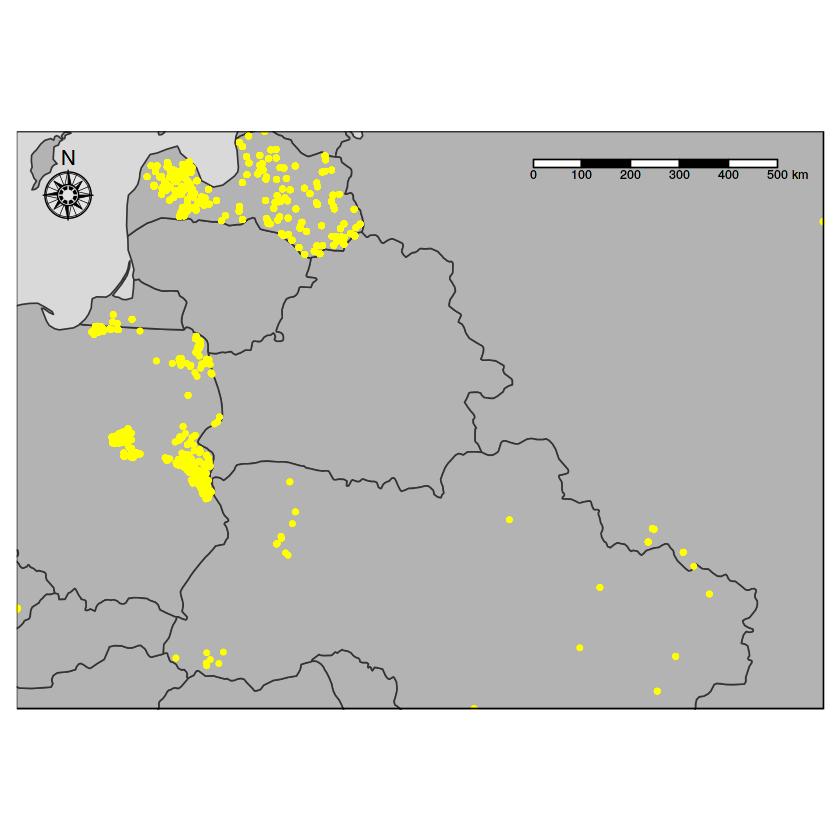
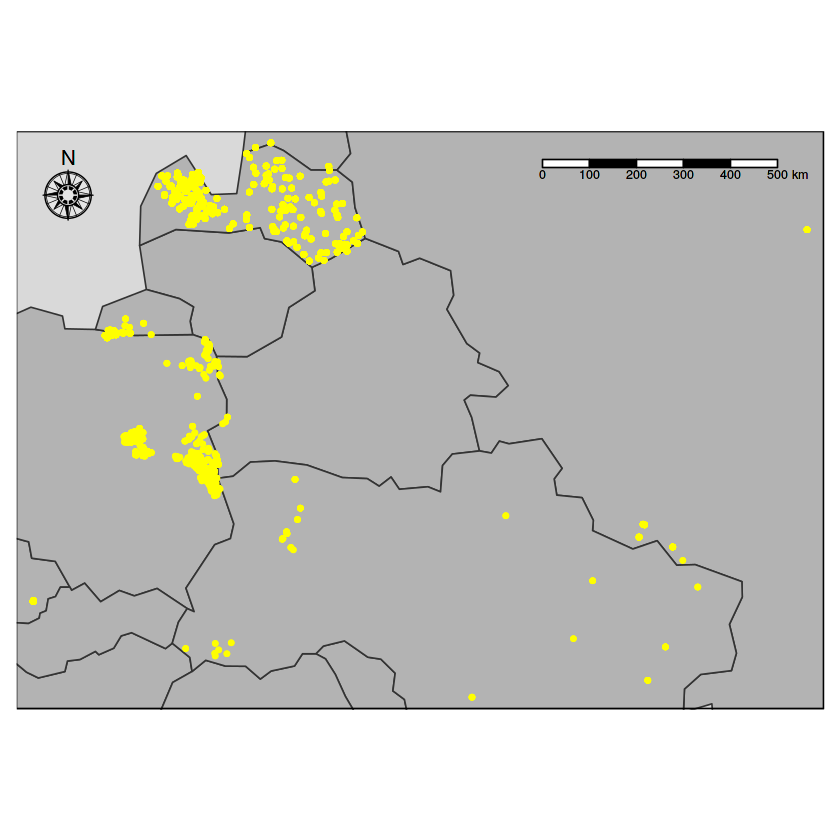
0.2

diff --git a/README.md b/README.md
@@ -67,40 +67,41 @@ head(tab)
 
 ```R
 library(sp)
+library(sf)
 
 pts = cbind(x=as.numeric(tab$lon), y=as.numeric(tab$lat))
 sptab = SpatialPointsDataFrame(pts, tab, proj4string=CRS('+init=epsg:4326'))
+sftab = as(sptab, 'sf')
 
-plot(sptab)
+
+library(tmap)
+
+tm_shape(sftab) + tm_dots(col='red', size=0.1)
 
 ```
 
-![png](https://github.com/solymosin/OIEparser/blob/master/man/figs/output_8_0.png)
+![png](https://github.com/solymosin/OIEparser/blob/master/man/figs/output_8_1.png)
 
 
 ```R
-library(tmap)
+data(World)
 
-data(Europe)
+wrld = st_transform(World, 4326)
 
-tm_shape(Europe) + tm_polygons() + 
-tm_shape(sptab) + tm_dots(col='yellow', size=0.1) +
-tm_format_Europe() +
-tm_style_grey()
+tm_shape(wrld) + tm_polygons() + 
+tm_shape(sftab) + tm_dots(col='yellow', size=0.1) +
+tm_style('grey')
 ```
 
 ![png](https://github.com/solymosin/OIEparser/blob/master/man/figs/output_9_1.png)
 
 
 ```R
-eu = spTransform(Europe, CRS('+init=epsg:4326'))
-
-tm_shape(eu, bbox=bbox(sptab)) + tm_polygons() + 
-tm_shape(sptab) + tm_dots(col='yellow', size=0.1) +
+tm_shape(wrld, bbox=st_bbox(sftab)) + tm_polygons() + 
+tm_shape(sftab) + tm_dots(col='yellow', size=0.1) +
 tm_compass(color.light='grey90', size=2, fontsize=1, type='rose', position=c('left', 'top')) +
-tm_scale_bar(size=0.6, position=c('right', 'top')) + 
-tm_format_Europe() +
-tm_style_grey() 
+tm_scale_bar(size=0.6, position=c('right', 'top'))+
+tm_style('grey')
 
 ```
 
@@ -111,11 +112,15 @@ tm_style_grey()
 
 
 ```R
-library(rgdal)
 
-writeOGR(obj=sptab, layer='ASF', driver='ESRI Shapefile', dsn='ASF_folder')
+st_write(sftab, 'ASF.shp')
 
 ```
+
+    Writing layer `ASF' to data source `ASF.shp' using driver `ESRI Shapefile'
+    features:       8812
+    fields:         10
+    geometry type:  Point
 
 #### Opening in QGIS 
 
